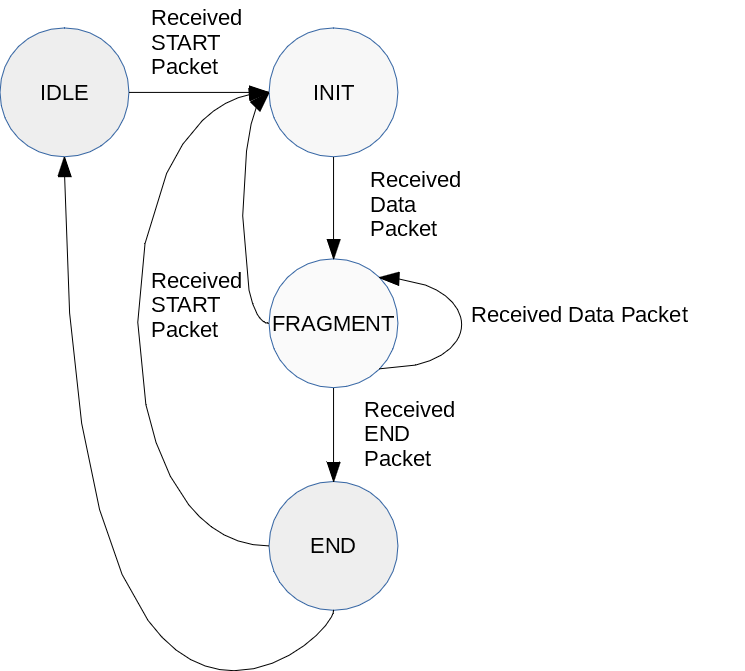
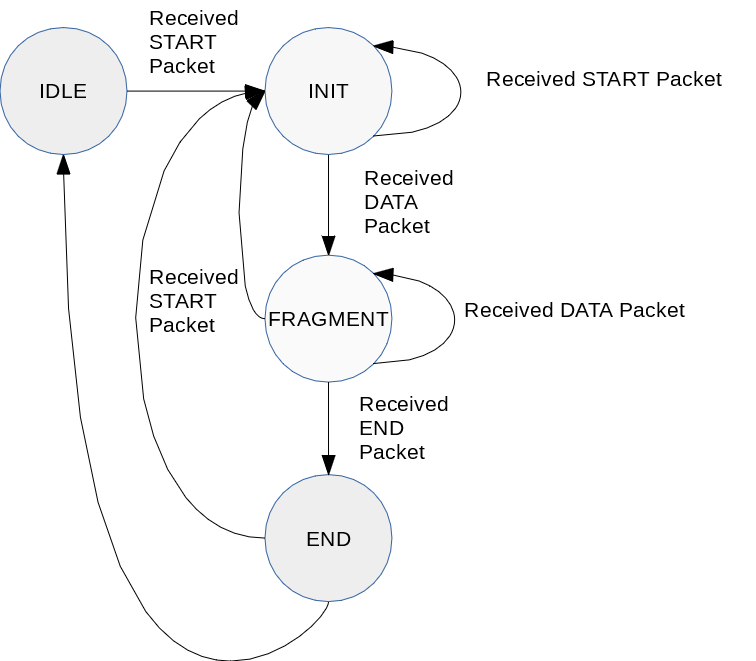
Finished simple message first pass
Added code blocks and cleaned up a bit.

diff --git a/Tutorials/Tutorials/2-Advanced_Proxy_Programs/Simple_Text_Messaging/tx.py b/Tutorials/Tutorials/2-Advanced_Proxy_Programs/Simple_Text_Messaging/tx.py
@@ -8,8 +8,9 @@ transmitter_config.read('transmiter_configuration.ini')
 #Variables
 local_device_callsign = transmitter_config.get("local", "callsign")  # Callsign of the local unit to connect to (COM port assignment)
 local_device_node_id = transmitter_config.getint("local", "id")  # Callsign ID of the local unit to connect to (COM port assignment)
-remote_device_callsign = transmitter_config.get("remote", "callsign")  # Callsign of the local unit to connect to (COM port assignment)
-remote_device_node_id = transmitter_config.getint("remote", "id")  # Callsign ID of the local unit to connect to (COM port assignment)
+
+remote_device_callsign = transmitter_config.get("remote", "callsign")  # Callsign of the remote unit to address RF packets too
+remote_device_node_id = transmitter_config.getint("remote", "id")  # Callsign ID of the local unit to address RF packets too
 
 # Create messaging application objects needed for transmissions
 faraday_tx_msg_sm = faraday_msg.MsgStateMachineTx()  # Transmit state machine object used to fragment data

diff --git a/Tutorials/Tutorials/2-Advanced_Proxy_Programs/Simple_Text_Messaging/faraday_msg.py b/Tutorials/Tutorials/2-Advanced_Proxy_Programs/Simple_Text_Messaging/faraday_msg.py
@@ -98,12 +98,14 @@ class MsgStateMachineTx(object):
         list_data_packets = []
 
         del list_data_packets[:]  # Remove all old indexes
+
         for i in range(0, len(list_msg_fragments), 1):
             data_packet = self.createdataframe(i, list_msg_fragments[i])
             print "Pre-Pack:", repr(data_packet), len(data_packet)
             data_packet = self.pkt_datagram_frame.pack(self.MSG_DATA, data_packet)
             print "Post-Pack:", repr(data_packet), len(data_packet)
             list_data_packets.append(data_packet)
+
         # Insert all packets into final packet list in order of transmission
         self.list_packets = []  # Reset any old packet fragments
         del self.list_packets[:]  # Remove all old indexes
@@ -318,7 +320,6 @@ class MessageAppRx(object):
         respectively.
 
         :param datagram: The received packet to be parsed
-
 
         :Return: If END packet then returns full reassembled packet
         :Return: If NOT END packet then returns None

diff --git a/Tutorials/Tutorials/2-Advanced_Proxy_Programs/Simple_Text_Messaging/Readme.md b/Tutorials/Tutorials/2-Advanced_Proxy_Programs/Simple_Text_Messaging/Readme.md
@@ -105,6 +105,57 @@ Fragmentation of the packets must be accompanied by a method for the receiver to
 
 ![Receiver Fragmentation State Machine](Images/Receiver_States.png "Receiver Fragmentation State Machine")
 
+The code block below is from the `faraday_msg.py` receiver class `MessageAppRx(object)` and the function `parsepacketfromdatagram()` performs the parsing of the recieved packets. The state machine diagram above was implemented into code as shown below. 
+
+> Note: The state machine implementation is not strong and allows free movement to any state (i.e. END packet directly following a START packet).
+
+```python
+ def parsepacketfromdatagram(self, datagram):    
+        unpacked_datagram = self.pkt_datagram_frame.unpack(datagram)
+        packet_identifier = unpacked_datagram[0]
+        packet = unpacked_datagram[1]
+        try:
+            # Start Packet
+            if packet_identifier == 255:
+                unpacked_packet = self.pkt_start.unpack(packet[0:12])
+                # print unpacked_packet
+                self.faraday_Rx_SM.frameassembler(255, unpacked_packet)
+                return None
+            # Data Packet
+            if packet_identifier == 254:
+                unpacked_packet = self.pkt_data.unpack(packet[0:41])
+                # print unpacked_packet
+                self.faraday_Rx_SM.frameassembler(254, unpacked_packet)
+                return None
+            # END Packet
+            if packet_identifier == 253:
+                unpacked_packet = self.pkt_end.unpack(packet[0])
+                # print unpacked_packet
+                message_assembled = self.faraday_Rx_SM.frameassembler(253, unpacked_packet)
+                return message_assembled
+        except Exception, err:
+            print "Fail - Exception", Exception, err
+```
+The receiver program `rx.py` is constantly looping and looking for new data to obtain from the proxy interface. When available data is retrieved and then parsed through the simple state machine.
+
+```python
+def rxmsgloop(self, local_callsign, local_callsign_id, uart_service_port_application_number, getwaittimeout):
+        data = None
+        data = self.faraday_Rx.GETWait(str(local_callsign).upper(),
+                                       int(local_callsign_id),
+                                       uart_service_port_application_number,
+                                       getwaittimeout)
+        if (data is not None) and ('error' not in data):
+            for item in data:
+                datagram = self.faraday_Rx.DecodeRawPacket(item['data'])
+                # All frames are 42 bytes long and need to be extracted from the much larger UART frame from Faraday
+                datagram = datagram[0:42]
+                message_status = self.parsepacketfromdatagram(datagram)
+                if message_status is None:
+                    return None  # Partial fragmented packet, still receiving
+                else:
+                    return message_status  # Full packet relieved!
+```
 
 ## Transmitter - Fragmenting Data
 
@@ -112,11 +163,93 @@ The transmitter class operations are very straight forward in their operational 
 
 ![Fragmenting Data](Images/Transmit_Create_Functional_Diagram.png "Fragmenting Data")
 
+The code block below shows the `tx.py` script performing the actions above:
+
+```python
+# Create message to transmit
+message = 'This is a test of a very long message that will be fragmented and reassembled!'
+
+# Create message fragments
+faraday_tx_msg_sm.createmsgpackets(local_device_callsign, local_device_node_id, message)
+
+#Iterate through start, stop, and data fragment packets and transmit
+for i in range(0, len(faraday_tx_msg_sm.list_packets), 1):
+    print "TX:", repr(faraday_tx_msg_sm.list_packets[i])
+    faraday_tx_msg_object.transmitframe(faraday_tx_msg_sm.list_packets[i])
+```
+
+The function `createmsgpackets()` in `faraday_msg.py` transmitter object `MsgStateMachineTx()` performs all of the packet and fragment creation. Note the DATA packet creation implemented, the program will pring debug information as seen in the tutorial script execution that gives insight into the pre/post fragmentation operations.
+
+```python
+    def createmsgpackets(self, src_call, src_id, msg):
+        # Ensure callsign and ID are formatted correctly
+        src_call = str(src_call).upper()
+        src_id = int(src_id)
+
+        # Create START Packet
+        msg_start = self.createstartframe(src_call, src_id, len(msg))
+        msg_start = self.pkt_datagram_frame.pack(self.MSG_START, msg_start)
+
+        # Create END Packet
+        msg_end = self.createendframe(len(msg))
+        msg_end = self.pkt_datagram_frame.pack(self.MSG_END, msg_end)
+
+        # Create DATA Packet(s)
+        list_msg_fragments = self.fragmentmsg(msg)
+        list_data_packets = []
+
+        del list_data_packets[:]  # Remove all old indexes
+
+        for i in range(0, len(list_msg_fragments), 1):
+            data_packet = self.createdataframe(i, list_msg_fragments[i])
+            print "Pre-Pack:", repr(data_packet), len(data_packet)
+            data_packet = self.pkt_datagram_frame.pack(self.MSG_DATA, data_packet)
+            print "Post-Pack:", repr(data_packet), len(data_packet)
+            list_data_packets.append(data_packet)
+
+```
+
+In the `faraday_msg.py` transmitter object the `fragmentmsg()` breaks the larger message into smaller sized packets that are within the MTU of the system.
+
+```python
+    def fragmentmsg(self, msg):
+        list_message_fragments = [msg[i:i + self.MAX_MSG_DATA_LENGTH] for i in
+                                  range(0, len(msg), self.MAX_MSG_DATA_LENGTH)]
+        for item in list_message_fragments:
+            print item, "Frag Length", len(item)
+        print repr(list_message_fragments)
+        return list_message_fragments
+```
+
+It should be noted that after the creation of all START, DATA, and END packets the program creates a list containing all packets in the correct order for transmisssion.
+
+
 ## Transmitter - Transmitting Fragmented Data
 
 The transmitter program then transmits the packets in the specific order to match the receiver state machine operational flow.
 
 ![Fragmentation Packet Transmit Ordering](Images/Transmit_Order.png "Fragmentation Packet Transmit Ordering")
+
+The transmitter script interates through a list of packets (already in the correct transmission order) and transmits them. There is no flow control or error correction.
+
+```python
+#Iterate through start, stop, and data fragment packets and transmit
+for i in range(0, len(faraday_tx_msg_sm.list_packets), 1):
+    print "TX:", repr(faraday_tx_msg_sm.list_packets[i])
+    faraday_tx_msg_object.transmitframe(faraday_tx_msg_sm.list_packets[i])
+```
+
+Transmission is performed using the message application object predefined function that simply implements a standard `proxy.py` interface POST.
+
+```python
+def transmitframe(self, payload):
+        self.command = self.faraday_cmd.CommandLocalExperimentalRfPacketForward(self.destination_callsign,
+                                                                                self.destination_id,
+                                                                                payload)
+        print "Transmitting message:", repr(payload), "length:", len(payload)
+        self.faraday_1.POST(self.local_device_callsign, self.local_device_node_id, self.faraday_1.CMD_UART_PORT,
+                            self.command)
+```
 
 
 
